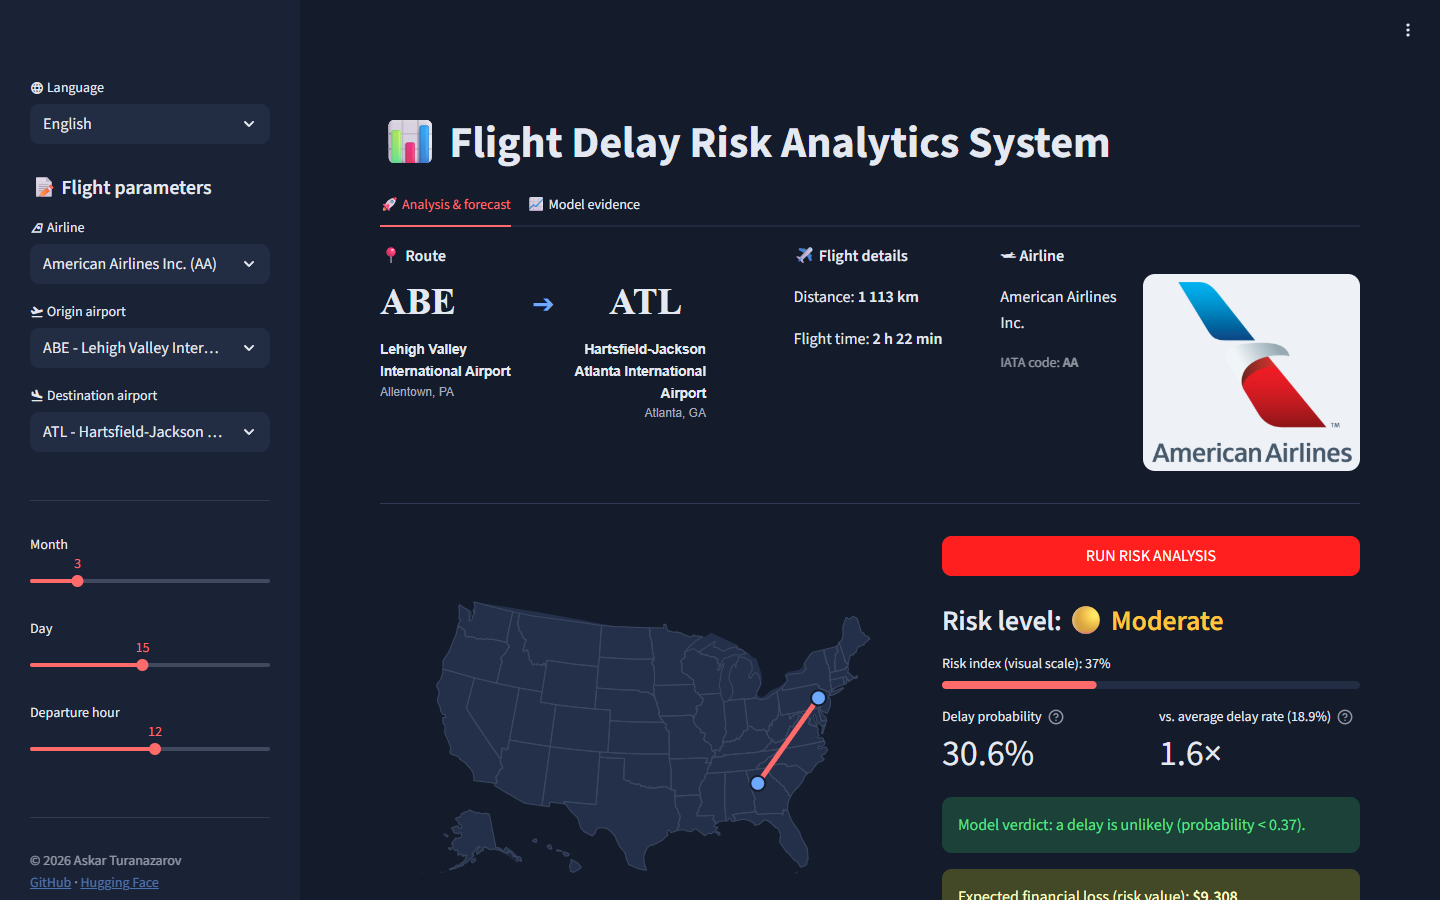
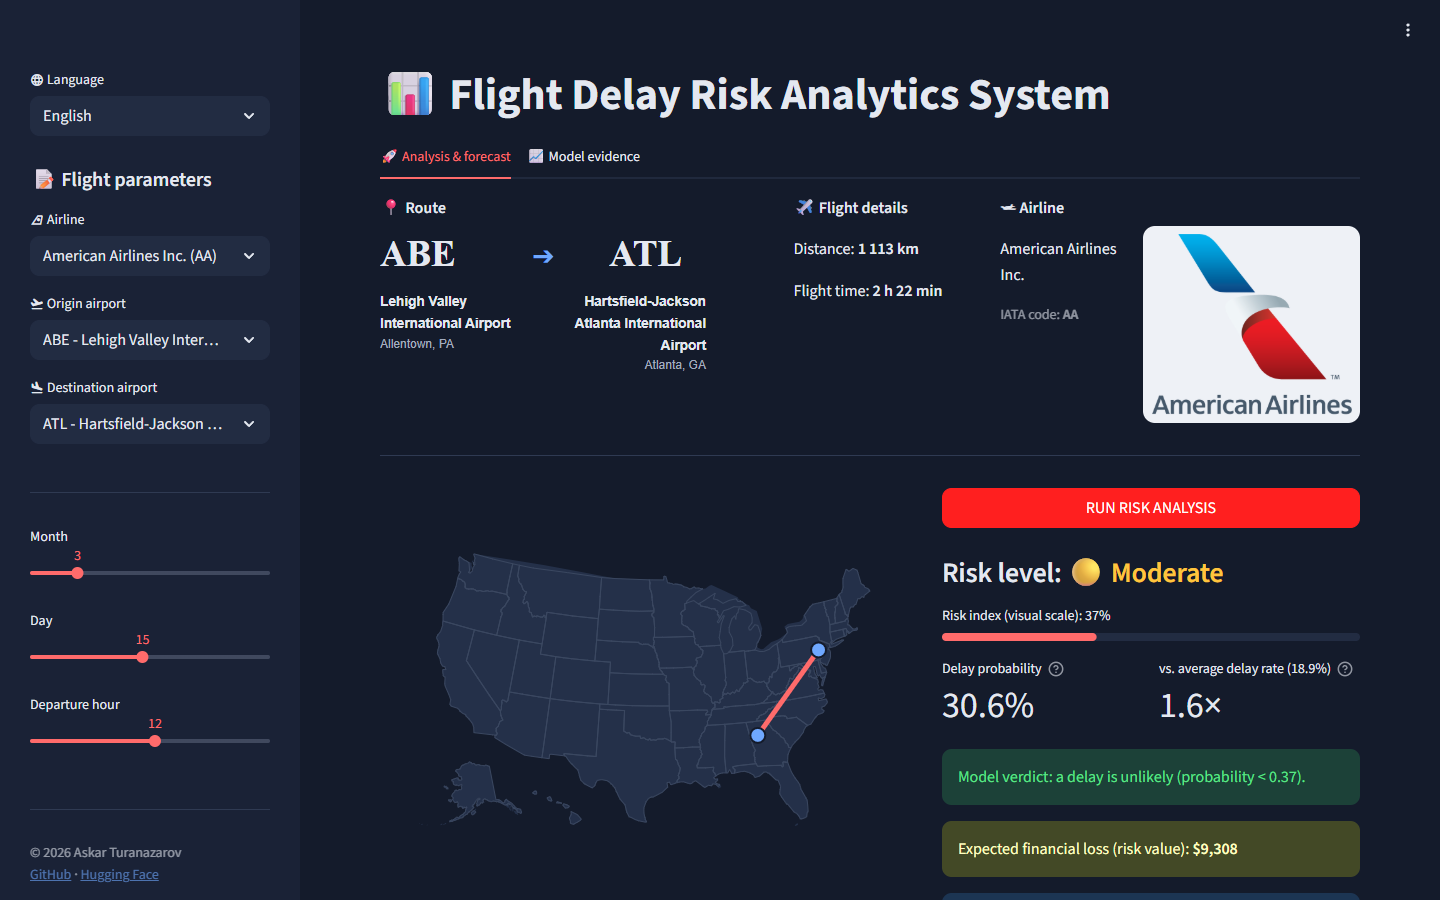
fix: tighten top padding via CSS, drop invalid paddingTop config keys

diff --git a/src/app.py b/src/app.py
@@ -57,6 +57,16 @@ st.set_page_config(
     },
 )
 
+# Streamlit has no config option for the top padding (the header bar is 60 px and opaque, so the
+# page content cannot start higher than ~3rem). Pull the main block and the sidebar content up so
+# the title and the first sidebar label sit on one line just below the header.
+st.html(
+    "<style>"
+    "[data-testid='stMainBlockContainer']{padding-top:3rem !important;}"
+    "[data-testid='stSidebarUserContent']{margin-top:-0.5rem;}"
+    "</style>"
+)
+
 
 def ui_theme() -> dict:
     """Colours that live in code (map, risk labels, inline HTML), matched to the active theme.
